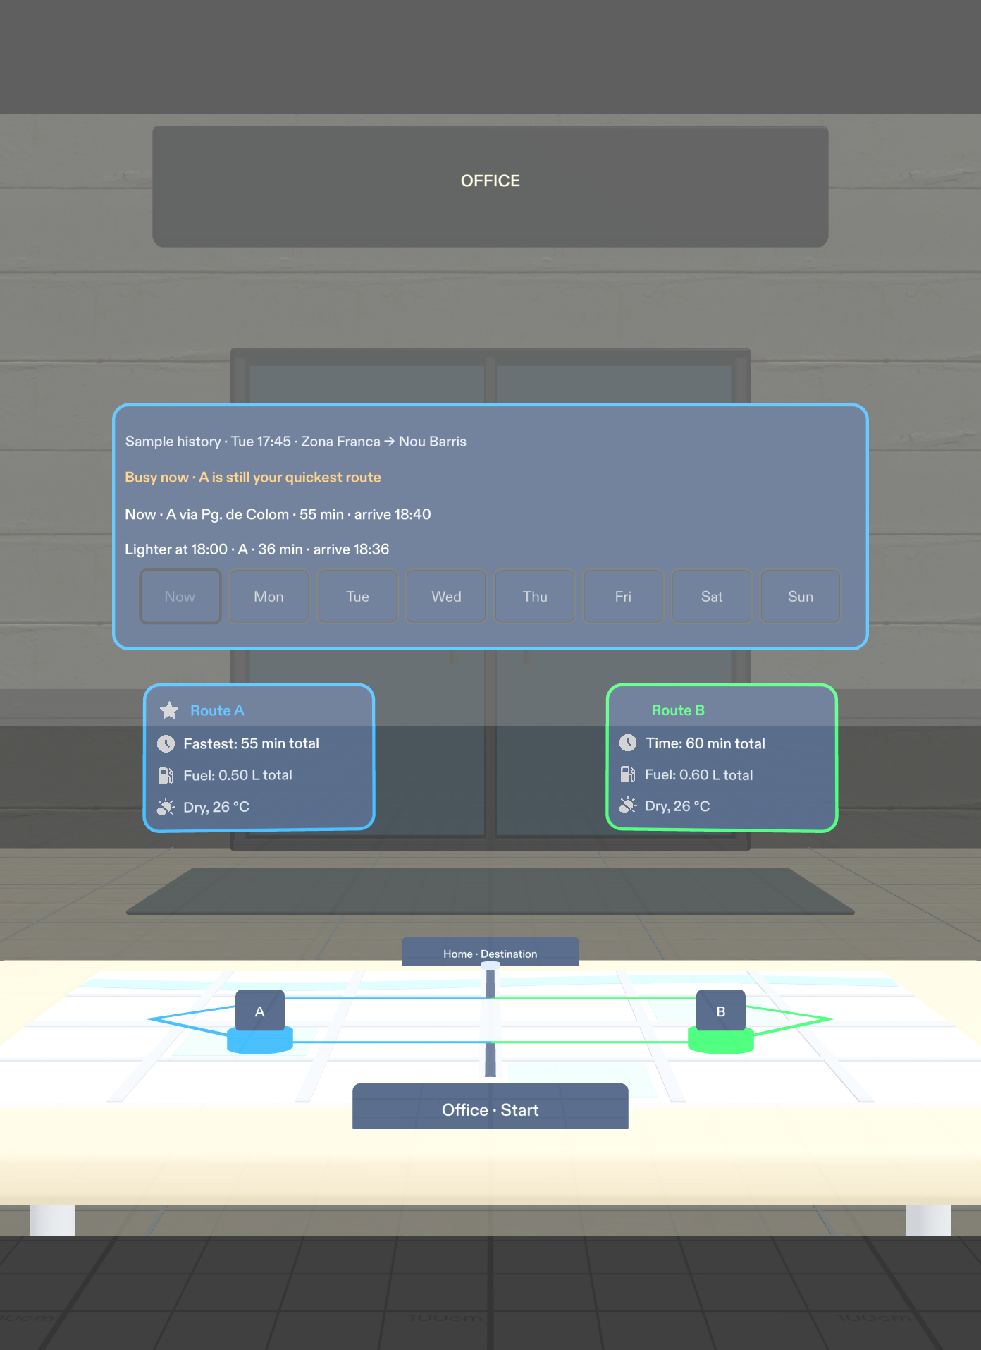
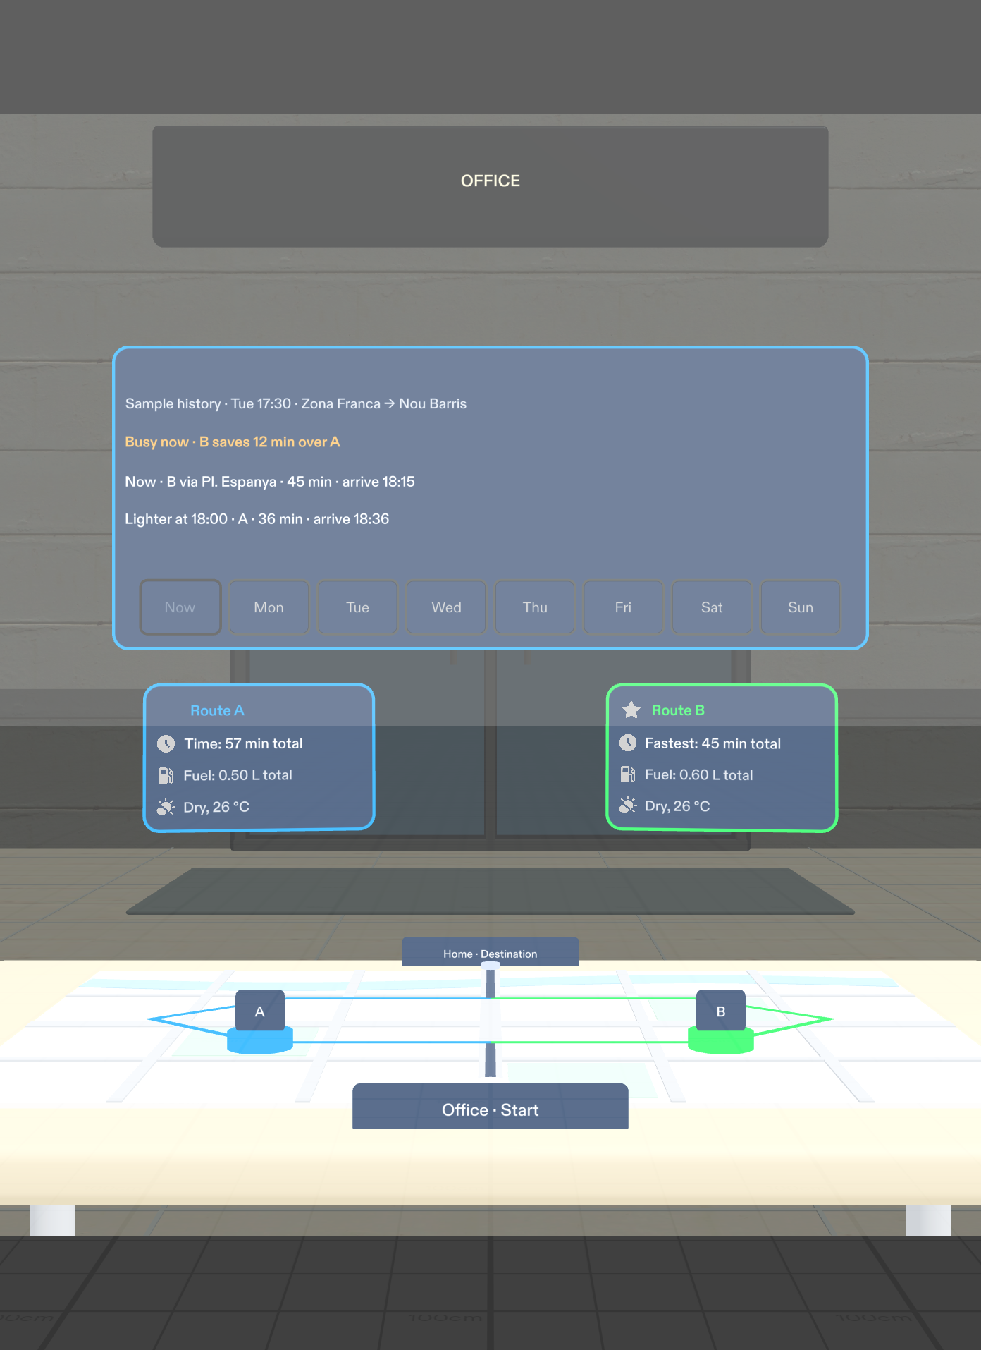
docs: show weekday traffic graph in Preview

diff --git a/README.md b/README.md
@@ -52,7 +52,7 @@ stateDiagram-v2
 
 ## Traffic Insight departure planning
 
-![Interactive Preview at 17:45 in the sample return trip. A now arrives at 18:40. Leaving at 18:00 on A arrives at 18:36.](docs/media/traffic-insight-now.png)
+![Interactive Preview at 17:30 in the sample return trip. B now arrives at 18:15. Waiting until 18:00 for A arrives at 18:36.](docs/media/traffic-insight-now.png)
 
 **Now** uses the latest paired traffic estimates for both routes and compares them with a typical lighter departure within the next hour. Fresh estimates count for up to 20 minutes. When they expire, the card labels its estimates as typical traffic. Each available option shows ride duration and estimated arrival time, so a shorter ride can still get you there later. Pinch either route to leave immediately. The estimate for the route you picked carries into the riding peek, **Where am I?**, and the stopped route comparison.
 
@@ -71,15 +71,15 @@ In Interactive Preview, pick **Go to office > Main office**. While the planning 
 
 ### Plan for another weekday
 
-![Sunday in Interactive Preview with the historical sample's lighter and busiest departure windows.](docs/media/traffic-insight-weekday.png)
+![Interactive Preview showing typical travel minutes for routes A and B across the selected weekday.](docs/media/traffic-insight-weekday.png)
 
-Choose a day from **Mon** through **Sun** on the departure card. It shows the lighter and busiest sampled 15-minute windows for that direction, along with the quickest route and typical duration in each window. A slot requires observations from at least three matching dates. Choose **Now** to return to current departure advice. Route selections always start the ride using the current estimate.
+Choose **Mon** through **Sun** to see a graph for that day. The horizontal axis shows Barcelona departure time. The vertical axis shows typical ride minutes for route A in blue and route B in green. Lower points mean shorter rides. Both axes stay fixed as you switch days for the same commute direction. Missing intervals appear as gaps. Each plotted slot requires observations from at least three matching dates. Choose **Now** to return to current departure advice. The route cards below the graph always show the estimates for leaving now.
 
 ### Use collected traffic history
 
 The independent collector can run while Lens Studio is closed. It records traffic-aware motorcycle trip estimates every 15 minutes and groups them by direction, Barcelona weekday and local time. A slot needs at least three matching dates before it can inform a recommendation. Live collection requires a TomTom API key and an HTTPS URL for the exported profile. During planning the Lens refreshes that profile at most once per minute. [Collector setup and route sources](tools/traffic-history/README.md)
 
-**Preview verification.** LEAF C15 passed in Interactive Preview on 2026-11-24. The screenshot above shows the busy return trip. [See the 17:00 good-time sample](docs/media/traffic-insight-departure.png).
+**Preview verification.** LEAF C15 passed in Interactive Preview on 2026-11-24. The Now screenshot shows a busy return trip, and the graph screenshot shows a sample Wednesday. [See the 17:00 good-time sample](docs/media/traffic-insight-departure.png).
 
 ## Walkthrough
 
@@ -209,7 +209,7 @@ All seven photographic source files passed SHA-256 verification. Earlier local r
 | C12 | No duration cap, pitch/yaw look-away and re-entry, explicit Hide route and re-arming | Pass |
 | C13 | Shared remaining estimates and hazard boundaries; actual caption button; no visual or progress change | Pass |
 | C14 | Blocked states, immediate alert/stop/arrival dismissal and no automatic reopening | Pass |
-| C15 | Recent traffic, historical fallback, weekday outlook and rider override | Pass (2026-11-24) |
+| C15 | Recent traffic, historical fallback, weekday route graphs and rider override | Pass (2026-11-24) |
 
 Sound audibility, hardware hand tracking, daylight readability and real riding comfort are unverified. Logger checks still report existing SDK deprecation and renderer batching warnings; no runtime exceptions were observed during verification.
 

diff --git a/tools/traffic-history/README.md b/tools/traffic-history/README.md
@@ -39,6 +39,6 @@ In Lens Studio, add an Internet Module asset and assign it to **Internet Module*
 
 Each pair contains TomTom's estimated motorcycle travel times at collection time. Group observations by direction, Barcelona weekday and 15-minute local time across the last 12 weeks. Take the median across distinct local dates, giving each date one vote even when clocks repeat an hour. At least three dates must support both routes in a slot.
 
-The **Now** card uses the most recent complete A/B sample in that direction for up to 20 minutes. When the sample expires, the Lens labels the fallback as typical traffic. Each weekday view uses its own historical slots. The planning card compares the quickest ride now with supported departures within the next hour on the same local day. A saving of at least five minutes of riding produces a busy-period suggestion. A good-time suggestion requires coverage of all four later slots. Each arrival clock includes the wait until departure. Missing or expired history gives no time-to-leave recommendation. The map still accepts either route.
+The **Now** card uses the most recent complete A/B sample in that direction for up to 20 minutes. When the sample expires, the Lens labels the fallback as typical traffic. Each weekday graph plots both routes using that day's historical 15-minute slots. Gaps show where fewer than three matching dates were collected. The planning card compares the quickest ride now with supported departures within the next hour on the same local day. A saving of at least five minutes of riding produces a busy-period suggestion. A good-time suggestion requires coverage of all four later slots. Each arrival clock includes the wait until departure. Missing or expired history gives no time-to-leave recommendation. The map still accepts either route.
 
 Run the collector regression checks with `node --test tools/traffic-history/collector.test.mjs`. These use temporary in-memory databases. Live collection requires a TomTom API key. LEAF C15 passed in Interactive Preview on 2026-11-24. [Departure card and screenshots](../../README.md#traffic-insight-departure-planning)

diff --git a/devpost/design-brief.md b/devpost/design-brief.md
@@ -129,7 +129,7 @@ rules in the original revision-two plan and decision 0008.
 
 15. After a destination is chosen, show a departure card on the planning map. In a good window recommend the quickest current route. During a busy window show a lighter departure and the quickest choice if leaving now, including A when B offers no improvement. Compare ride times and arrival clocks. Let the rider leave on either route in one pinch. Suppress timing advice for sparse history. Hide the card during the ride and use the chosen estimate for the route peek, caption and stopped comparison. LEAF C15 exercises the labeled sample scenarios through the normal controls.
 
-The Now view uses a recent paired route sample when it is at most 20 minutes old. Label the historical fallback when fresh traffic is unavailable. Let the rider select any weekday and compare lighter and busier supported departure windows. Browsing a weekday keeps the route choices tied to leaving now. LEAF C15 verifies that separation.
+The Now view uses a recent paired route sample when it is at most 20 minutes old. Label the historical fallback when fresh traffic is unavailable. Let the rider select any weekday and compare both routes on a graph of typical trip minutes by Barcelona departure time. Keep both axes fixed across weekdays for the chosen trip direction. Show gaps where the history lacks enough observations. Browsing a weekday keeps the route choices tied to leaving now. LEAF C15 verifies that separation.
 
 An independent collector samples each Barcelona corridor and direction every 15 minutes. Use weekday and local time to compare departures within the coming hour. At least three distinct matching dates support each estimate. The main-office commute connects Nou Barris and Zona Franca. The branch office uses its own fallback. [Collector and route details](../tools/traffic-history/README.md)
 
